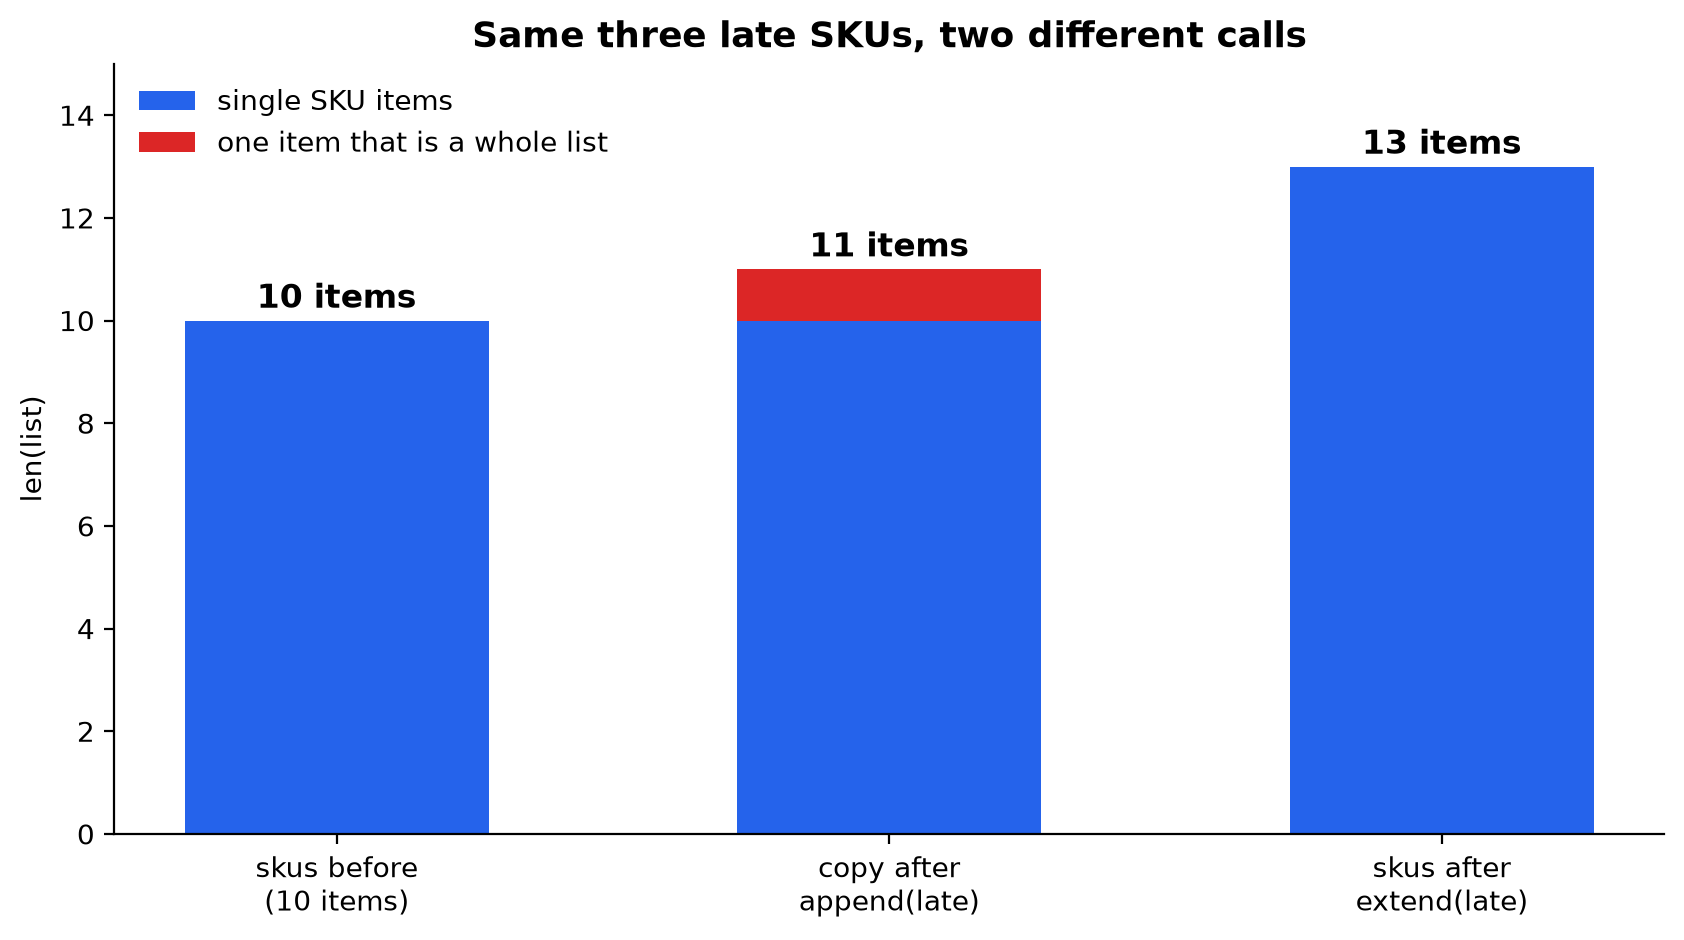
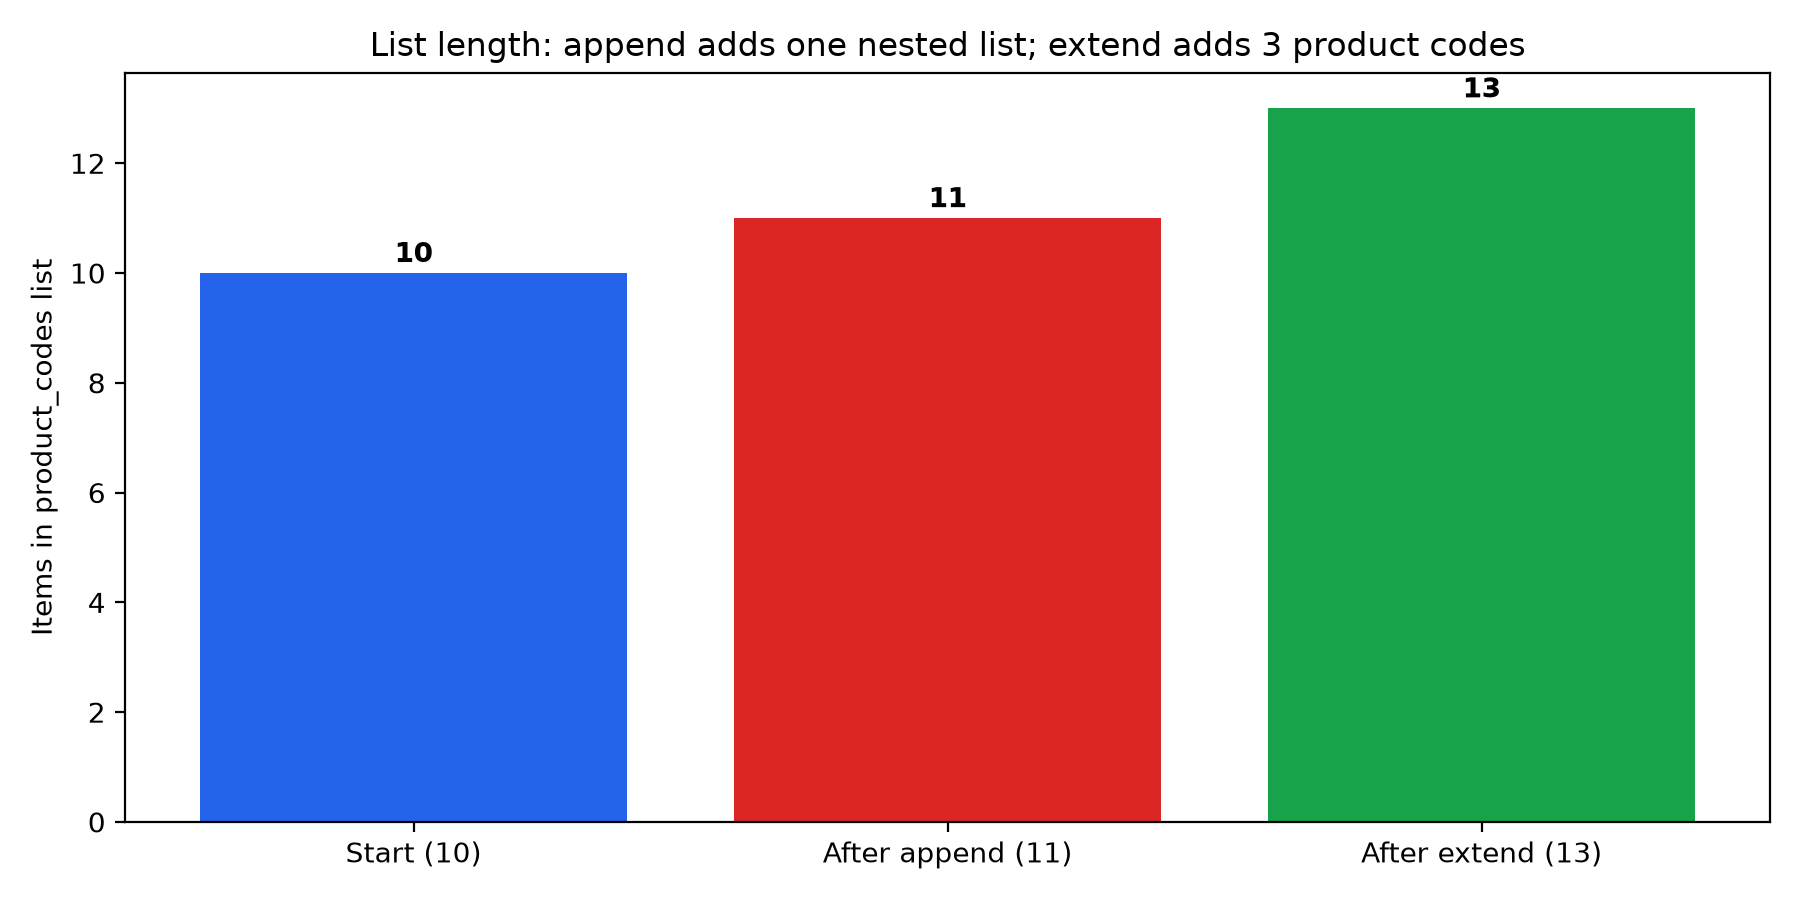
Rename lecture 5 data and images away from SKU jargon.
Use seller_product_codes.csv, product_code charts, and updated script paths.

diff --git a/IITP-AIDA-EN-III-2610/module-01-data-sql-foundations/lecture-05-lists-and-string-handling/lecture-script.md b/IITP-AIDA-EN-III-2610/module-01-data-sql-foundations/lecture-05-lists-and-string-handling/lecture-script.md
@@ -24,7 +24,7 @@ The lecture runs as four topics. Each topic ends with a quiz.
 
 **The risk:** a Meesho-style reselling app lets small sellers check a product list in a Colab notebook before uploading it. One wrong list or one badly typed title, and the product never appears in the catalogue that day.
 
-> <font color="red">**🎯 Instructor Note**</font> Meesho is only the setting. Do not claim Meesho uses this data; the 120 seller rows in `data/seller_skus.csv` are invented for teaching.
+> <font color="red">**🎯 Instructor Note**</font> Meesho is only the setting. Do not claim Meesho uses this data; the 120 seller rows in `data/seller_product_codes.csv` are invented for teaching.
 > Share the file before class. It has messy product code text, messy titles, four blank titles, tied prices and prices from ₹49 to ₹4,999.
 
 ---
@@ -111,7 +111,7 @@ SHO-0620-WH
 
 #### <font color='#c2410c'>Code Explanation</font>
 
-- **Lines 1 to 3** Square brackets with commas make a list of ten texts and store it in the name `product_codes`. These are rows 1 to 10 of `data/seller_skus.csv`.
+- **Lines 1 to 3** Square brackets with commas make a list of ten texts and store it in the name `product_codes`. These are rows 1 to 10 of `data/seller_product_codes.csv`.
 - **Line 4** `product_codes[0]` is the item at position 0, the first one.
 - **Line 5** `product_codes[-1]` counts from the back, so it is the last item.
 - **Line 6** `product_codes[-2]` is the second item from the back.
@@ -273,7 +273,7 @@ print(trial[-1])
 
 #### <font color='#c2410c'>Code Explanation</font>
 
-- **Line 1** The three late product codes are rows 11 to 13 of `data/seller_skus.csv`.
+- **Line 1** The three late product codes are rows 11 to 13 of `data/seller_product_codes.csv`.
 - **Line 2** `product_codes[:]` is a slice of the whole list, so it makes a copy. We test on the copy and keep `product_codes` safe.
 - **Line 3** `append` adds exactly one item to the end. Here that one item is the whole list `late`.
 - **Lines 4 and 5** The length is 11, and the last item is a list inside the list.
@@ -461,7 +461,7 @@ RD
 
 > <font color='green'>**Result**</font> The product code `KRT-0412-RD` splits into category `KRT`, style number `0412` and colour `RD`.
 
-<p align="center"><img src="images/04_sku_anatomy.png" alt="The product code KRT-0412-RD drawn as 11 character boxes with positions 0 to 10, coloured by the slices item_code[:3], item_code[4:8] and item_code[9:]" width="900"></p>
+<p align="center"><img src="images/04_product_code_anatomy.png" alt="The product code KRT-0412-RD drawn as 11 character boxes with positions 0 to 10, coloured by the slices item_code[:3], item_code[4:8] and item_code[9:]" width="900"></p>
 
 ### <font color='green'>Extending it: the same slices on the last three product codes</font>
 
@@ -657,7 +657,7 @@ Women's Printed Kurti
 > <font color='purple'>**How many of the 120 titles have end spaces, a double space, wrong capitals, or nothing at all?**</font>
 
 > <font color="red">**🎯 Instructor Note**</font> Ask for a guess out of 120. Give learners 30 seconds to respond in chat. Reveal the counts after the run.
-> Share `data/seller_skus.csv` before class for mentors; learners use the `catalog_blob` text in the cell until the Files session teaches `open()`.
+> Share `data/seller_product_codes.csv` before class for mentors; learners use the `catalog_blob` text in the cell until the Files session teaches `open()`.
 
 ```python
 catalog_blob = "1,SLR-201,KRT-0412-RD,Cotton Kurta Set,499\n2,SLR-201,KRT-0413-BL,Printed Kurti,549\n3,SLR-201,TEE-0207-WH,Round Neck Tee,299\n4,SLR-201, tee-0208-bk ,  graphic TEE ,349\n5,SLR-201,JNS-0331-BL,Slim Fit Jeans,299\n6,SLR-201,jns-0332-bk,SLIM FIT JEANS,899\n7,SLR-201,SAR-0905-RD,Silk Saree,1299\n8,SLR-201, bag-0118-gn,Canvas Backpack,749\n9,SLR-201,SHO-0620-WH,Running Shoes,599\n10,SLR-201,SHO-0621-BK,running  shoes,399\n11,SLR-201,SAR-0910-GN,Cotton Saree,649\n12,SLR-201,TEE-0210-YL,Polo T-Shirt,49\n13,SLR-201,SAR-0911-RD,Zari Silk Saree,4999\n14,SLR-202,bag-0148-rd  ,canvas backpack,749\n15,SLR-202,BAG-0108-BL,Canvas Backpack,449\n16,SLR-202, KRT-0487-YL,WOMEN'S PRINTED KURTI,499\n17,SLR-202,SHO-0621-RD,Running Shoes,699\n18,SLR-202,JNS-0389-RD,slim fit jeans,649\n19,SLR-202,krt-0447-bk,women's printed kurti  ,449\n20,SLR-202,TEE-0224-RD,Polo T-Shirt,149\n21,SLR-202, KRT-0423-BL,women's printed kurti,499\n22,SLR-202,SHO-0615-BK ,Casual Sneakers,599\n23,SLR-202, jns-0312-rd ,Slim Fit Jeans  ,899\n24,SLR-203, BAG-0172-RD,Canvas Backpack,649\n25,SLR-203,KRT-0403-WH,Printed Kurti  ,599\n26,SLR-203,TEE-0253-BL,Graphic Tee  ,299\n27,SLR-203,TEE-0253-WH,graphic tee,249\n28,SLR-203,SHO-0613-WH,Casual Sneakers,699\n29,SLR-203,tee-0254-gn  ,Round Neck Tee,299\n30,SLR-203,krt-0480-gn  ,straight kurta,449\n31,SLR-203,JNS-0310-WH,men's denim jeans,649\n32,SLR-203,krt-0442-wh,cotton kurta set,349\n33,SLR-203,SAR-0928-BK, COTTON  SAREE ,699\n34,SLR-204,TEE-0283-BK,POLO T-SHIRT,199\n35,SLR-204,KRT-0429-WH,Straight Kurta  ,649\n36,SLR-204,KRT-0412-WH,Straight Kurta  ,649\n37,SLR-204,TEE-0239-RD, ROUND  NECK TEE ,299\n38,SLR-204,SAR-0907-RD,silk saree,1299\n39,SLR-204,TEE-0290-BL,  graphic tee,199\n40,SLR-204,KRT-0478-YL,,649\n41,SLR-204,BAG-0198-YL,CANVAS BACKPACK,449\n42,SLR-204,SHO-0604-WH,casual sneakers,599\n43,SLR-204,TEE-0249-GN,Round Neck Tee,199\n44,SLR-205,BAG-0186-WH, CANVAS  BACKPACK ,849\n45,SLR-205, KRT-0482-GN,cotton kurta set,649\n46,SLR-205, sho-0636-wh ,  casual sneakers,599\n47,SLR-205,TEE-0296-BK,  graphic tee,299\n48,SLR-205, jns-0380-bk ,slim fit jeans,899\n49,SLR-205,BAG-0149-BK,CANVAS BACKPACK,449\n50,SLR-205,JNS-0341-RD,  slim fit jeans,749\n51,SLR-205,SHO-0681-GN,running shoes,799\n52,SLR-205,JNS-0339-YL,slim fit jeans,899\n53,SLR-205,TEE-0210-WH,polo  t-shirt,149\n54,SLR-206,SAR-0946-BL,cotton  saree,1099\n55,SLR-206,BAG-0132-BL,  canvas backpack,649\n56,SLR-206,JNS-0305-BL,Slim Fit Jeans,649\n57,SLR-206,tee-0235-bl, ROUND  NECK TEE ,249\n58,SLR-206,SAR-0948-BL,  silk saree,2499\n59,SLR-206,TEE-0269-GN,Round Neck Tee,349\n60,SLR-206, TEE-0204-RD,GRAPHIC TEE,199\n61,SLR-206,SHO-0633-YL,running shoes,899\n62,SLR-206,TEE-0220-YL,round neck tee,299\n63,SLR-206,BAG-0159-BK,Canvas Backpack,449\n64,SLR-207,KRT-0411-BK,STRAIGHT KURTA,499\n65,SLR-207,KRT-0451-WH ,women's printed kurti,499\n66,SLR-207,jns-0380-gn,  slim fit jeans,149\n67,SLR-207,tee-0278-rd,Polo T-Shirt,249\n68,SLR-207,TEE-0239-BK,Graphic Tee,299\n69,SLR-207,KRT-0493-YL,printed kurti,399\n70,SLR-207,KRT-0488-YL,women's printed kurti,499\n71,SLR-207,SHO-0610-BL,running shoes,599\n72,SLR-207,JNS-0392-YL,slim  fit jeans,899\n73,SLR-207,TEE-0286-BL,  graphic tee,249\n74,SLR-208, SHO-0694-RD,Running Shoes  ,799\n75,SLR-208,JNS-0320-YL,Slim Fit Jeans,749\n76,SLR-208, BAG-0193-BL,  laptop sling bag,849\n77,SLR-208,jns-0309-bk,   ,799\n78,SLR-208, jns-0344-wh ,SLIM FIT JEANS,649\n79,SLR-208,SAR-0905-BL,silk  saree,799\n80,SLR-208, BAG-0175-GN,  laptop sling bag,749\n81,SLR-208,SHO-0635-BK,CASUAL SNEAKERS,999\n82,SLR-208,KRT-0453-RD,WOMEN'S PRINTED KURTI,599\n83,SLR-208,krt-0400-bl  ,women's printed kurti,349\n84,SLR-209,SAR-0903-WH ,Silk Saree,899\n85,SLR-209,JNS-0369-YL,  slim fit jeans,899\n86,SLR-209,sar-0955-rd  ,Silk Saree,1499\n87,SLR-209,KRT-0410-WH,STRAIGHT KURTA,649\n88,SLR-209,BAG-0114-RD,Laptop Sling Bag,549\n89,SLR-209,tee-0232-yl  ,Round Neck Tee  ,149\n90,SLR-209,KRT-0404-BL,straight kurta,399\n91,SLR-209, SAR-0991-YL,silk saree,1099\n92,SLR-209,KRT-0498-RD,STRAIGHT KURTA,349\n93,SLR-209,KRT-0406-WH,women's printed kurti,2499\n94,SLR-210,TEE-0238-BK,POLO T-SHIRT,199\n95,SLR-210,SAR-0904-BL,Silk Saree,1499\n96,SLR-210,BAG-0155-BL ,Laptop Sling Bag,849\n97,SLR-210,KRT-0440-RD ,Printed Kurti,399\n98,SLR-210,JNS-0337-GN,men's  denim jeans,899\n99,SLR-210, sar-0973-wh ,  silk saree,1499\n100,SLR-210, bag-0129-yl ,Laptop Sling Bag,449\n101,SLR-210,KRT-0468-BL,,599\n102,SLR-210,JNS-0325-BL,Slim Fit Jeans  ,649\n103,SLR-210,KRT-0404-YL, STRAIGHT  KURTA ,349\n104,SLR-211,SHO-0648-WH,Casual Sneakers  ,899\n105,SLR-211,sar-0972-wh,SILK SAREE,699\n106,SLR-211, BAG-0108-YL, CANVAS  BACKPACK ,749\n107,SLR-211,SAR-0988-GN,SILK SAREE,1499\n108,SLR-211,tee-0281-bl  ,  polo t-shirt,349\n109,SLR-211,SAR-0957-GN,COTTON SAREE,1499\n110,SLR-211,tee-0215-gn  ,  graphic tee,149\n111,SLR-211,KRT-0414-GN,printed kurti,399\n112,SLR-211,BAG-0118-WH, LAPTOP  SLING BAG ,749\n113,SLR-211,tee-0218-rd,Polo T-Shirt,149\n114,SLR-212,KRT-0478-BK,women's printed kurti,499\n115,SLR-212,SHO-0605-YL,   ,899\n116,SLR-212,TEE-0284-BL ,round neck tee,149\n117,SLR-212,tee-0275-bl,Polo T-Shirt  ,249\n118,SLR-212,sho-0668-yl,RUNNING SHOES,899\n119,SLR-212,SAR-0971-RD,Silk Saree,699\n120,SLR-212,TEE-0280-RD,Polo T-Shirt,299"
@@ -675,7 +675,7 @@ print(lines[0])
 
 #### <font color='#c2410c'>Code Explanation</font>
 
-- **Lines 1 to 2** `catalog_blob` is one text with one seller row on each line, the same 120 rows as in `data/seller_skus.csv`. `splitlines()` cuts it into a list called `lines`.
+- **Lines 1 to 2** `catalog_blob` is one text with one seller row on each line, the same 120 rows as in `data/seller_product_codes.csv`. `splitlines()` cuts it into a list called `lines`.
 - **Line 3** `len` counts the rows.
 - **Line 4** Position 0 of the list is the first data row, one text with five fields.
 
